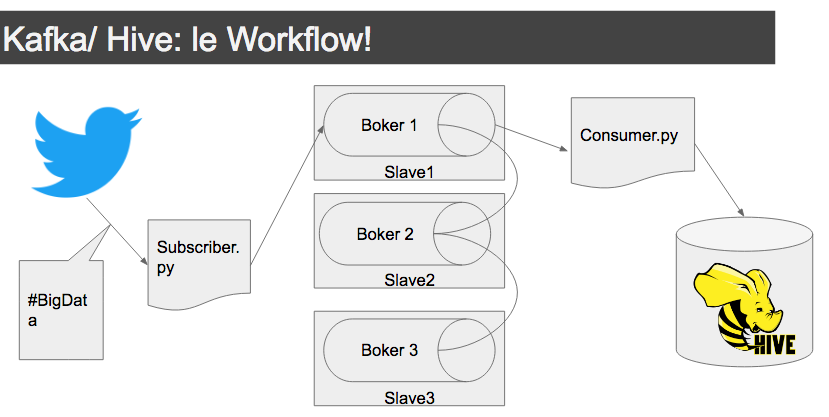
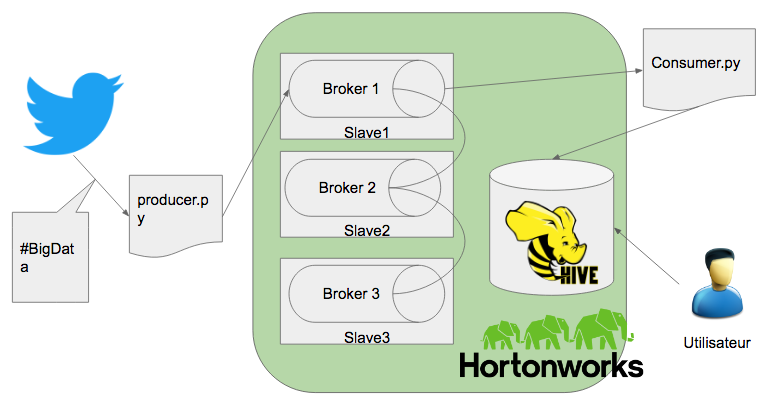
feat: modification de la doc

diff --git a/README.md b/README.md
@@ -12,7 +12,7 @@
 
 ## LE PRINCIPE DE FONCTIONNEMENT:
 
-Le but est d'insérer des données que nous recevons en flot continue dans Hive. Partons du principe que notre cluster Hadoop sous distribution Hortonworks est déjà installé et configuré. Nous disposons donc:
+Le but est d'insérer des données que nous recevons en flot continue dans Hive. Partons du principe que notre cluster Hadoop sous distribution Hortonworks ainsi que Hive et les brokers Kafka sont déjà installés et configurés. Nous disposons donc:
 * D'un ou plusieurs brokers kafka géré(s) par Zookieper
 * Un entrepôt de données Hive ainsi que sa vue dans Hortonworks
 
@@ -74,3 +74,9 @@ SELECT * FROM kafka;
 ```
 
 ![alt text](https://gitbox.affini-tech.net/Affini-Tech/Kafka-Hadoop/raw/master/images/vue_hive.png "fonctionnement Kafka")
+
+## LET'S GO! /2:
+
+### Ci dessous, le schéma avec un exemple de cas d'utilisation
+
+![alt text](https://gitbox.affini-tech.net/Affini-Tech/Kafka-Hadoop/raw/master/images/cas d'utilisation.png "cas d'utilisation Kafka")

diff --git a/consumer/README.md b/consumer/README.md
@@ -23,7 +23,7 @@
 ### Quelques infos sur ce consumer (supposons la taille des blocs définie à 30 messages):
 
 * Au lancement, il définit le premier offset dans le fichier *offset.cfg*
-* Si le consumer s'arrête pendant l'envoie de messages **avant** la consitution du premier bloc de 30 messages, au relancement du consumer, il se basera sur ce premier offset
+* Si le consumer s'arrête pendant l'envoie de messages **avant** la constitution du premier bloc de 30 messages, au relancement du consumer, il se basera sur ce premier offset
 * À chaque fin de création de bloc, il stock l'offset du dernier message de ce bloc dans le fichier *offset.cfg*
 * Si par exemple, pendant l'envoie en flot continue du producer, le consumer s'arrête après avoir stocké seulement 15 messages, il pourra au relancement, se baser sur le dernier offset du bloc précédent afin de continuer à récupérer les messages depuis celui-ci.
 * dispose d'un fichier *consumer_from_position.out*, contenant toutes les infos et logs le concernant.

diff --git a/producer/README.md b/producer/README.md
@@ -1,0 +1,17 @@
+# FICHIERS PRODUCER : CONNEXION KAFKA À HIVE
+-------------------------
+
+
+## Le fichier producer.py:
+
+**Ce fichier est un producer simple ayant pour but de récupérer des données (en l'occurence des tweets) pour les envoyer dans un topic Kafka.**
+
+### Quelques infos sur ce producer:
+
+* récupère les tweet en direct en fonction d'un #
+* se base sur l'API twitter en python, afin de récupérer diverses informations: dans notre le cas,
+  les messages seront constitué du nom de l'utilisateur ayant créé le tweet, de son message et du hashtag en question.
+  ``` bash
+  msg = '@%s: %s' %(decoded['user']['screen_name'], decoded['text'].encode('ascii', 'ignore'))
+  ```
+* dispose d'un fichier *producer.out*, contenant toutes les infos et logs le concernant.

diff --git a/params/README.md b/params/README.md
@@ -35,7 +35,7 @@ La liste des brokers se trouve dans *Services > Kafka> Kafka Brokers*. **ATTENTI
 
 ## Le fichier config.json:
 
-**Ce fichier comporte les tokens et keys disponibles après avoir configuer son compte Twitter développeur**
-Toutes ces informations sont accessible au moment de la création d'une application twitter:
+**Ce fichier comporte les tokens et keys disponibles après avoir configué son compte Twitter développeur**
+Toutes ces informations sont accessibles au moment de la création d'une application twitter:
 
 ![alt text](https://gitbox.affini-tech.net/Affini-Tech/Kafka-Hadoop/raw/master/images/twitter_dev_app.png "Application de dev Twitter")
